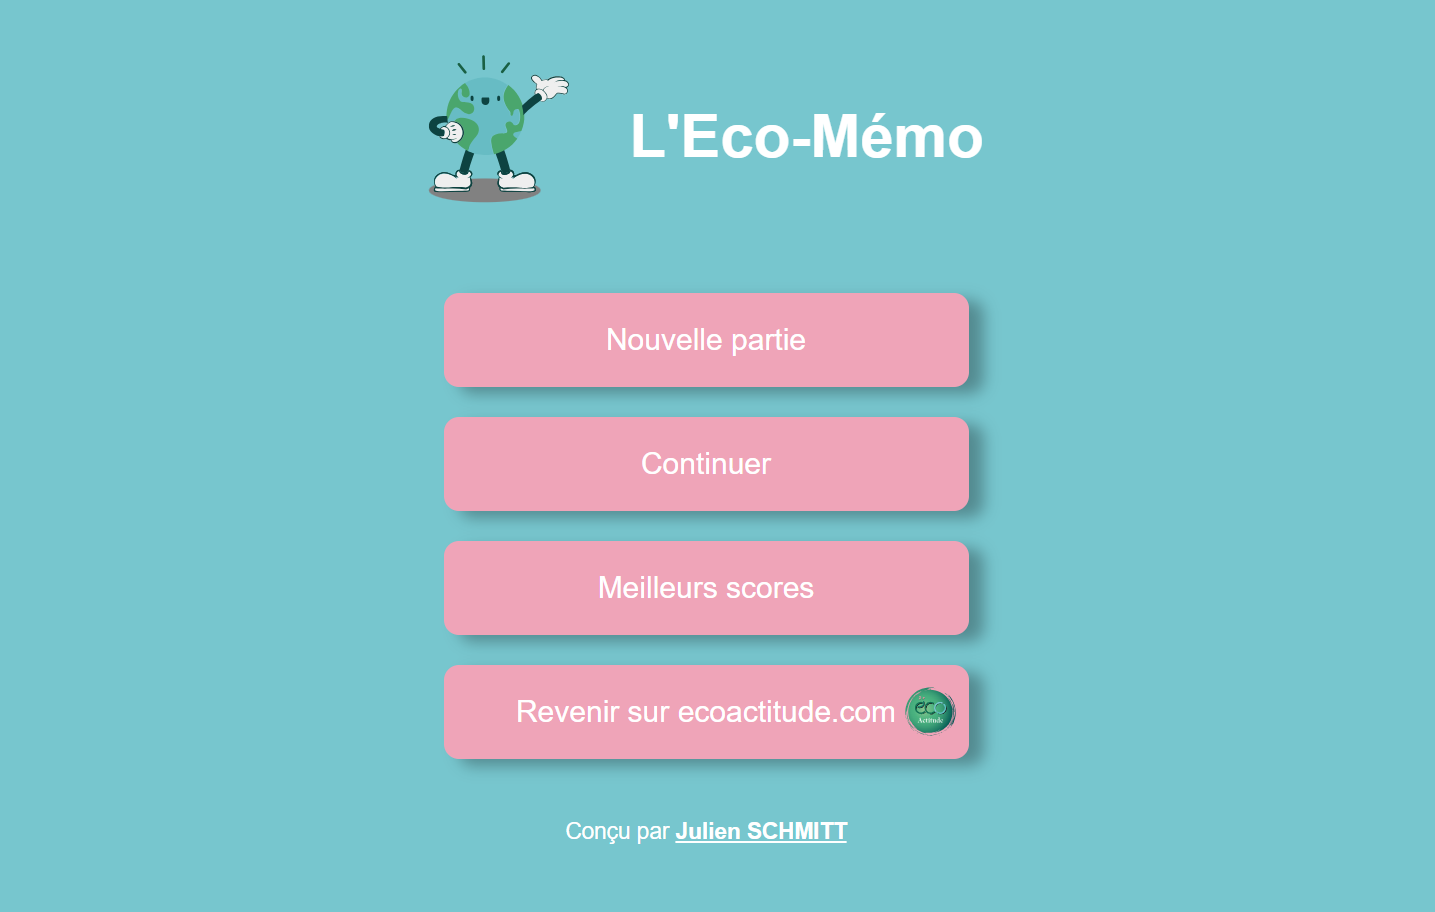
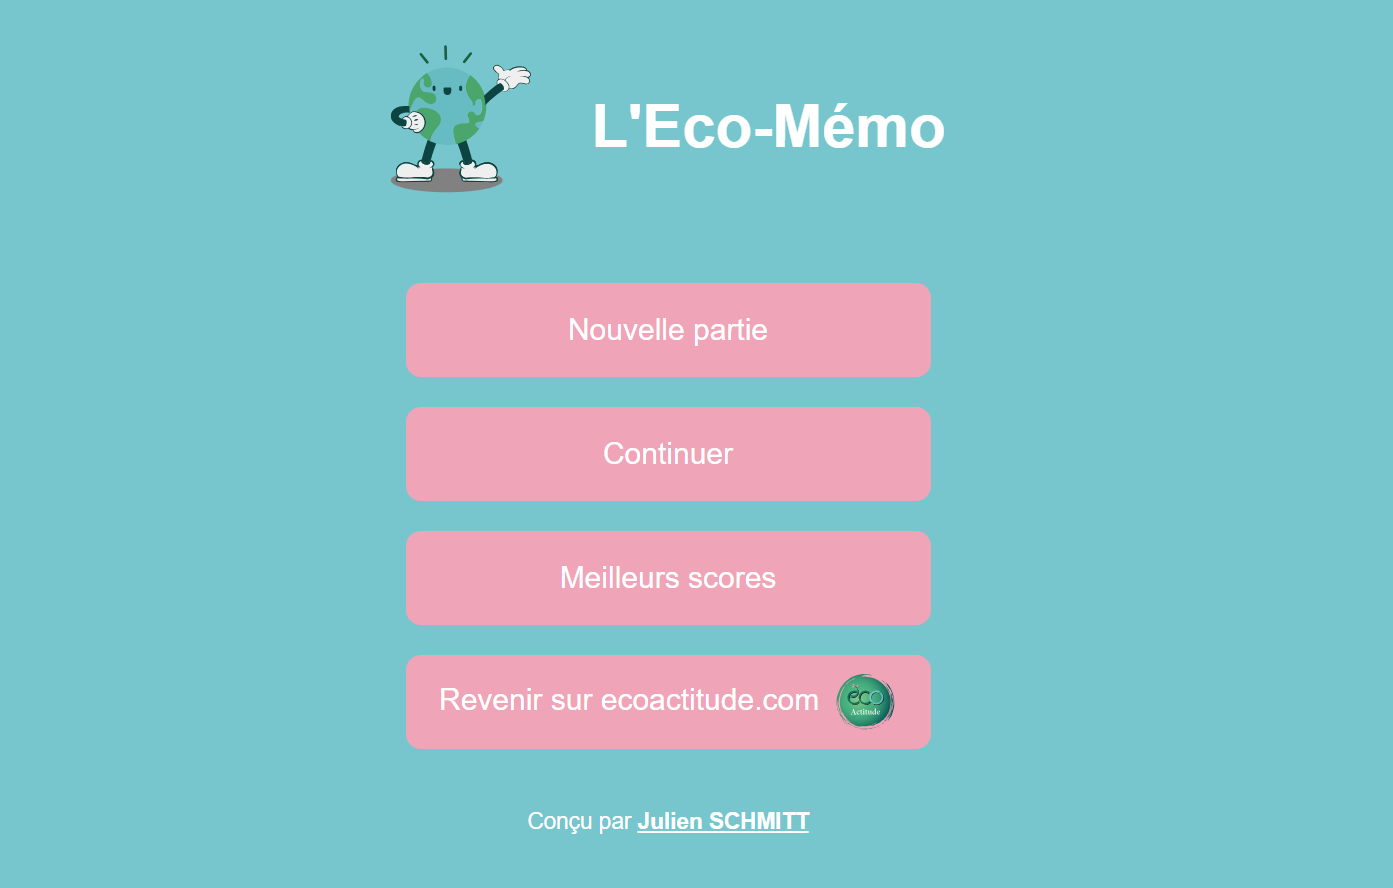
Add animations for combos and update README.md

diff --git a/project/resources/scss/app.scss b/project/resources/scss/app.scss
@@ -79,11 +79,8 @@ a {
 }
 
 .breadcrumbs {
-  position: absolute;
-  @media (max-width: 1300px) {
     position: relative;
     margin-bottom: 30px;
-  }
 
   a {
     display: flex;
@@ -108,11 +105,9 @@ a {
     display: flex;
     flex-direction: row;
     flex-wrap:nowrap;
-    @media(max-width: 1300px) {
-      padding-inline-start: 0;
-      align-content: center;
-      justify-content: center;
-    }
+    padding-inline-start: 0;
+    align-content: center;
+    justify-content: center;
   }
 
   .emoticon {
@@ -216,9 +211,6 @@ a {
   cursor: pointer;
   box-shadow: none;
   transition: all 0.3s ease-out;
-  @media(min-width: 1300px) {
-    margin-top: 55px;
-  }
 
   &:hover {
     box-shadow: 5px 5px 10px rgba(0,0,0,0.3) inset;
@@ -377,4 +369,31 @@ a {
   p {
     text-align: center;
   }
+}
+
+@keyframes imageGrow {
+  0% {
+    transform: translate(-50%, -50%) scale(0.9);
+    opacity: 0.9;
+  }
+
+  15% {
+    transform: translate(-50%, -50%) scale(1.1);
+    opacity: 0.7;
+  }
+
+  100% {
+    transform: translate(-50%, -50%) scale(1);
+    opacity: 0;
+  }
+}
+
+.combo {
+  position: fixed;
+  left: 50%;
+  top: 50%;
+  z-index: 1;
+  opacity: 0;
+  pointer-events: none;
+  animation: imageGrow 2s ease-in-out;
 }

diff --git a/project/resources/js/app.js b/project/resources/js/app.js
@@ -7,3 +7,16 @@ window.flipCard = function(card, id) {
         Livewire.dispatch('flip-card', { id: String(id) })
     }
 }
+
+Livewire.on('reload-combo-animation', () => {
+    const comboImage = document.querySelector('.combo');
+
+    if (comboImage) {
+        comboImage.classList.remove('combo');
+
+        // Trigger reflow
+        void comboImage.offsetWidth;
+
+        comboImage.classList.add('combo');
+    }
+});

diff --git a/project/app/Livewire/MemoryGame.php b/project/app/Livewire/MemoryGame.php
@@ -34,58 +34,60 @@ class MemoryGame extends Component
      * @return void
      */
     #[On('process-flipped-cards')]
-    public function processFlippedCards(string $id, bool $isFlipped): void
+    public function processFlippedCards(string $id): void
     {
         // Find the current card
         $key = array_search($id, array_column($this->cards, 'id'));
 
         // Flip the current card
-        $this->cards[$key]['isFlipped'] = $isFlipped;
+        $this->cards[$key]['isFlipped'] = true;
 
-        // Check if the current card is flipped
-        if ($this->cards[$key]['isFlipped'] === true) {
-            // Store the flipped date
-            $this->cards[$key]['flippedDate'] = microtime(true);
-            $flippedCards = array_filter($this->cards, function($card) {
-                return isset($card['isFlipped']) && $card['isFlipped'] === true && (!isset($card['isInError']) || $card['isInError'] === false);
-            });
+        // Store the flipped date
+        $this->cards[$key]['flippedDate'] = microtime(true);
 
-            // Sort the flipped cards
-            uasort($flippedCards, function ($a, $b) {
-                if (!isset($a['isCompleted']) && !isset($b['isCompleted'])) {
-                    return $b['flippedDate'] <=> $a['flippedDate'];
-                } else {
-                    if (isset($a['isCompleted']) && !isset($b['isCompleted'])) {
-                        return 1;
-                    }
-                    if (isset($b['isCompleted']) && !isset($a['isCompleted'])) {
-                        return -1;
-                    }
+        \Log::info("flipCard" . $id);
+        \Log::info(print_r($this->cards, true));
+
+        $flippedCards = array_filter($this->cards, function($card) {
+            return isset($card['isFlipped']) && $card['isFlipped'] === true && (!isset($card['isInError']) || $card['isInError'] === false);
+        });
+
+        // Sort the flipped cards
+        uasort($flippedCards, function ($a, $b) {
+            if (!isset($a['isCompleted']) && !isset($b['isCompleted'])) {
+                return $b['flippedDate'] <=> $a['flippedDate'];
+            } else {
+                if (isset($a['isCompleted']) && !isset($b['isCompleted'])) {
+                    return 1;
                 }
-
-                return 0;
-            });
-
-            // Check if there are two flipped cards
-            if (count($flippedCards) % 2 === 0) {
-                // Dispatch the appropriate event based on whether the current card matches the last flipped card
-                $lastFlippedCard = array_slice($flippedCards, 1, 1)[0];
-                if ($this->cards[$key]['lot'] === $lastFlippedCard['lot']) {
-                    $this->dispatch('increment-score');
-                    $this->dispatch('is-in-success')->to(Card::class);
-                    $this->cards[array_search($lastFlippedCard['id'], array_column($this->cards, 'id'))]['isCompleted'] = true;
-                    $this->cards[$key]['isCompleted'] = true;
-
-                    if (count($flippedCards) === count($this->cards)) {
-                        $this->dispatch('game-over')->to(Score::class);
-                    }
-                } else {
-                    $this->dispatch('increment-attempts')->to(Attempt::class);
-                    $this->dispatch('decrement-score')->to(Score::class);
-                    $this->dispatch('is-in-error', ids: [$id, $lastFlippedCard['id']])->to(Card::class);
-                    $this->cards[array_search($lastFlippedCard['id'], array_column($this->cards, 'id'))]['isInError'] = true;
-                    $this->cards[$key]['isInError'] = true;
+                if (isset($b['isCompleted']) && !isset($a['isCompleted'])) {
+                    return -1;
                 }
+            }
+
+            return 0;
+        });
+        \Log::info(print_r($flippedCards, true));
+
+        // Check if there are two flipped cards
+        if (count($flippedCards) > 0 && count($flippedCards) % 2 === 0) {
+            // Dispatch the appropriate event based on whether the current card matches the last flipped card
+            $lastFlippedCard = array_slice($flippedCards, 1, 1)[0];
+            if ($this->cards[$key]['lot'] === $lastFlippedCard['lot']) {
+                $this->dispatch('increment-score');
+                $this->dispatch('is-in-success')->to(Card::class);
+                $this->cards[array_search($lastFlippedCard['id'], array_column($this->cards, 'id'))]['isCompleted'] = true;
+                $this->cards[$key]['isCompleted'] = true;
+
+                if (count($flippedCards) === count($this->cards)) {
+                    $this->dispatch('game-over')->to(Score::class);
+                }
+            } else {
+                $this->dispatch('increment-attempts')->to(Attempt::class);
+                $this->dispatch('decrement-score');
+                $this->dispatch('is-in-error', ids: [$id, $lastFlippedCard['id']])->to(Card::class);
+                $this->cards[array_search($lastFlippedCard['id'], array_column($this->cards, 'id'))]['isInError'] = true;
+                $this->cards[$key]['isInError'] = true;
             }
         }
     }
@@ -98,12 +100,15 @@ class MemoryGame extends Component
      * @return void
      */
     #[On('reset-card')]
-    public function resetCard($id): void
+    public function resetCard(string $id): void
     {
+        \Log::info('delete' . $id);
+        \Log::info(print_r($this->cards, true));
         foreach ($this->cards as $key => $card) {
             if ((string)$card['id'] === $id) {
                 $this->cards[$key]['isInError'] = false;
                 $this->cards[$key]['isFlipped'] = false;
+                $this->cards[$key]['flippedDate'] = null;
             }
         }
     }

diff --git a/project/resources/views/livewire/score.blade.php b/project/resources/views/livewire/score.blade.php
@@ -1,19 +1,29 @@
 <div>
-    <p><span class="bold">Score</span> : {{ $score }}</p>
+    <div>
+        @if ($combo > 1)
+            <img src='{{ asset("images/combos/$combo.png") }}' alt="Combo {{ $combo }}" class="combo">
+        @endif
+    </div>
+    <div>
+        <p><span class="bold">Score</span> : {{ $score }}</p>
 
-    @if ($isGameOver)
-        <div class="modal">
-            <div class="modal-content">
-                <h2>Bravo !</h2>
-                <p>Vous avez marqué <span class="bold">{{ $score }}</span> points.</p>
-                <form wire:submit="saveScore">
-                    <label for="name">Saisissez votre <span class="bold">nom</span> pour enregistrer votre score.</label>
-                    <input type="text" id="name" name="name" wire:model="name">
-                    @error('name') <span class="error">{{ $message }}</span> @enderror
-                    <button type="submit">Enregistrer</button>
-                </form>
-                <button wire:click="redirectDashboard">Quitter sans enregistrer.</button>
+        @if ($isGameOver)
+            <div class="modal">
+                <div class="modal-content">
+                    <h2>Bravo !</h2>
+                    <p>Vous avez marqué <span class="bold">{{ $score }}</span> points.</p>
+                    <form wire:submit="saveScore">
+                        <label for="name">Saisissez votre <span class="bold">nom</span> pour enregistrer votre score.</label>
+                        <input type="text" id="name" name="name" wire:model="name">
+                        @error('name') <span class="error">{{ $message }}</span> @enderror
+                        <button type="submit">Enregistrer</button>
+                    </form>
+                    <button wire:click="redirectDashboard">Quitter sans enregistrer.</button>
+                </div>
             </div>
-        </div>
-    @endif
+        @endif
+
+    </div>
 </div>
+
+

diff --git a/project/app/Livewire/Card.php b/project/app/Livewire/Card.php
@@ -33,22 +33,17 @@ class Card extends Component
             return;
         }
 
-        $this->isFlipped = !$this->isFlipped;
+        $this->isFlipped = true;
 
         $this
-            ->dispatch('process-flipped-cards', id: $this->id, isFlipped: $this->isFlipped)
+            ->dispatch('process-flipped-cards', id: $this->id)
             ->to(MemoryGame::class)
         ;
 
         // Then update the card details
-        if ($this->isFlipped) {
-            $card = \App\Models\Card::where('id', $this->id)->first();
-            $this->src = asset('images/' . $card->src);
-            $this->alt = $card->alt;
-        } else {
-            $this->src = null;
-            $this->alt = 'Back of card';
-        }
+        $card = \App\Models\Card::where('id', $this->id)->first();
+        $this->src = asset('images/' . $card->src);
+        $this->alt = $card->alt;
     }
 
     /**

diff --git a/project/app/Livewire/Score.php b/project/app/Livewire/Score.php
@@ -15,6 +15,7 @@ class Score extends Component
     public int $score = 0;
     #[Session]
     public int $combo = 0;
+
     #[Validate('required|regex:/^[\pL\s\d]+$/u')]
     public string $name = '';
     #[Session]
@@ -30,8 +31,11 @@ class Score extends Component
     public function incrementScore(): void
     {
         ++$this->combo;
+
         // Increment the score by 10 + (combo * 5)
         $this->score += 10 + ($this->combo * 5);
+
+        $this->dispatch('reload-combo-animation');
     }
 
     /**
@@ -44,6 +48,7 @@ class Score extends Component
     public function decrementScore(): void
     {
         $this->combo = 0;
+
         // If the score is less than 10, decrement the score by 1
         // Otherwise, decrement the score by an integer of score / 10
         if ($this->score < 10) {

diff --git a/README.md b/README.md
@@ -15,9 +15,9 @@ Source code for Eco-Actitude Memory Quest.
 
 ### Rules
 
-|                          ![success.gif](assets%2Fsuccess.gif)                           |                                              ![error.gif](assets%2Ferror.gif)                                              |
-|:---------------------------------------------------------------------------------------:|:--------------------------------------------------------------------------------------------------------------------------:|
-| :green_circle:  If the two cards are <span style="color:green">the same</span>, then you win 10 points. | :red_circle: If the two cards are <span style="color:red">different</span>, then you lose 1 point and the number of Attempts increases. |
+|                                   ![success.gif](assets%2Fsuccess.gif)                                    |                                              ![error.gif](assets%2Ferror.gif)                                              |
+|:---------------------------------------------------------------------------------------------------------:|:--------------------------------------------------------------------------------------------------------------------------:|
+| :green_circle:  If the two cards are <span style="color:green">the same</span>, then you win 10+5 points. | :red_circle: If the two cards are <span style="color:red">different</span>, then you lose 1 point and the number of Attempts increases. |
 
 #### Scoring
 
@@ -26,6 +26,26 @@ Source code for Eco-Actitude Memory Quest.
 - -1 point for each pair not found if the score is less than 10
 - -10% of the score for each pair not found if the score is greater than 10
 
+#### Combos bonus
+
+<table>
+  <tr>
+    <td>
+      <img src="assets/combo1.gif" alt="Combo" width="49.5%"/>
+      <img src="assets/combo2.gif" alt="Combo" width="49.5%"/>
+    </td>
+  </tr>
+  <tr>
+    <td>
+      :green_circle:  If you find a pair of cards in a row, you win 10+5*{combos} points.
+    </td>
+  </tr>
+</table>
+
+
+violet | rond blanc | carré dans vert |  rond blanc diff | rond blanc diff | carré blanc pot
+stylo vert | violet | lessive | rond blanc | carré blanc pot | savon violet
+savon violet | jardin suspendu | jardin suspendu | stylo vert | carré vert | lessive
 ## Screenshots
 
 ### Dashboard
